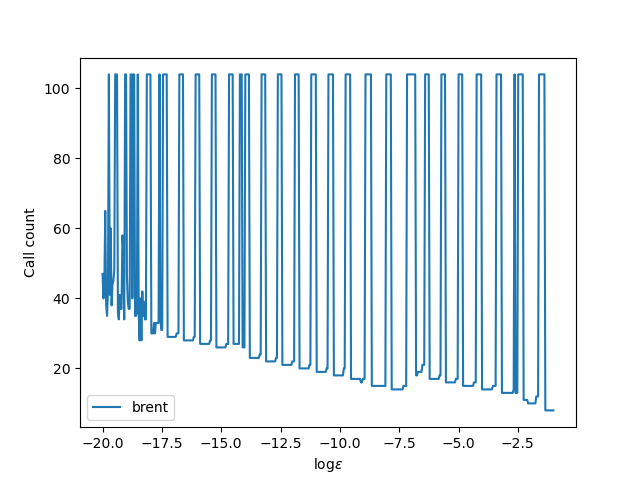
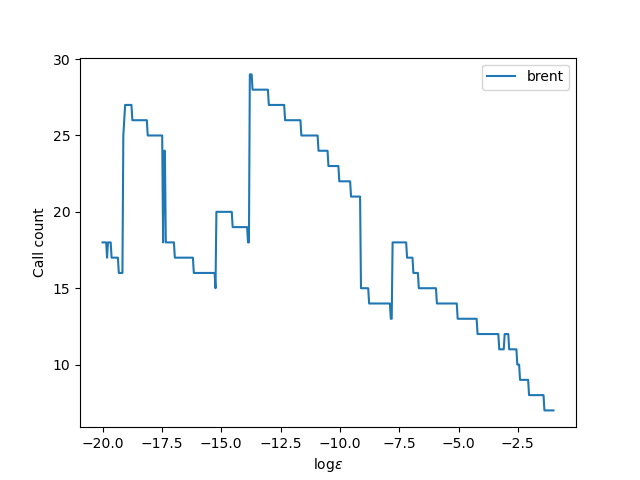
Fix brent

diff --git a/scripts/main.py b/scripts/main.py
@@ -8,10 +8,10 @@ import numpy as np
 import matplotlib.pyplot as plt
 
 methods = [
-    Method.DICHOTOMY,
-    Method.GOLDENSECTIONS,
-    Method.FIBONACCI,
-    Method.PARABOLAS,
+    # Method.DICHOTOMY,
+    # Method.GOLDENSECTIONS,
+    # Method.FIBONACCI,
+    # Method.PARABOLAS,
     Method.BRENT,
 ]
 
@@ -35,6 +35,8 @@ def gen_table(method):
 def count_calls(method = Method.DICHOTOMY, epsilon = 1e-5):
    for data in read_data(epsilon = epsilon, method = method):
        if(data['type'] == 'minimum'):
+           # if (int(data['call_count']) > 100):
+           #     print(epsilon)
            return int(data['call_count'])
 def gen_count_graph(method):
     epsilons = np.linspace(-1, -20, 500)
@@ -44,6 +46,7 @@ def gen_count_graph(method):
     plt.xlabel('$\\log \\varepsilon$')
     plt.ylabel("Call count")
     plt.savefig(PROJECT_ROOT + 'scripts/images/count_' + method + '.png')
+    plt.show()
 
 def gen_gprahs():
     for method in methods:
@@ -70,16 +73,15 @@ def test_polynom(polynom, x_range, plt = plt):
     plt.legend()
 
 if __name__ == "__main__":
-    # gen_gprahs()
+    gen_gprahs()
     # gen_tables()
-    fig, ((ax1, ax2), (ax3, ax4)) = plt.subplots(2, 2)
-    test_polynom([0, 0, 1], (-1, 1), plt = ax1)
-    test_polynom([0, -0.4, 2, -0.2], (-5, 12), plt = ax2)
-    test_polynom([-0.1, -0.9, -1.4, 0.3, 0.3], (-3, 3), plt = ax3)
-    test_polynom([-0.1, 0.1, -0.5, 0.1, -0.8, 0.1], (-5, 5), plt = ax4)
-    handles, labels = ax4.get_legend_handles_labels()
-    # plt.gcf().legend(handles, labels, loc = 'upper center')
-    plt.gcf().set_size_inches(10, 10)
-    plt.savefig(PROJECT_ROOT + 'scripts/images/polynom.png', dpi=100)
-    plt.show()
+    # fig, ((ax1, ax2), (ax3, ax4)) = plt.subplots(2, 2)
+    # test_polynom([0, 0, 1], (-1, 1), plt = ax1)
+    # test_polynom([0, -0.4, 2, -0.2], (-5, 12), plt = ax2)
+    # test_polynom([-0.1, -0.9, -1.4, 0.3, 0.3], (-3, 3), plt = ax3)
+    # test_polynom([-0.1, 0.1, -0.5, 0.1, -0.8, 0.1], (-5, 5), plt = ax4)
+    # handles, labels = ax4.get_legend_handles_labels()
+    # plt.gcf().set_size_inches(10, 10)
+    # plt.savefig(PROJECT_ROOT + 'scripts/images/polynom.png', dpi=100)
+    # plt.show()
 

diff --git a/lib/include/methods.hpp b/lib/include/methods.hpp
@@ -14,6 +14,11 @@ enum class Method {
 };
 
 template <typename T>
+bool check_equals(T a, T b) {
+    return static_cast<T>(fabs(a - b)) < std::numeric_limits<T>::epsilon();
+}
+
+template <typename T>
 class DichotomyMethod : public Optimizer<T> {
 private:
     T m_a, m_b, sigma, m_x1, m_x2, m_delta, m_fx1, m_fx2;
@@ -222,10 +227,6 @@ public:
         return {new IterationInterval<T>(x_1, x_3),
                 new IterationPoint<T>(u, f_u), parabola};
     }
-private:
-    bool check_equals(T a, T b) {
-        return static_cast<T>(fabs(a - b)) < std::numeric_limits<T>::epsilon();
-    }
 };
 
 template <typename T>
@@ -273,9 +274,11 @@ public:
         } else {
             d = golden_sec_const * (e = (x >= xm ? a - x : b - x));
         }
-        u = (fabs(d) >= tol1 ? x + d : x + tol1);
+        u = (fabs(d) >= tol1 ? x + d : x + tol1*(d > 0 ? 1 : -1));
         fu = (*this->m_function)(u);
         if (fu <= fx) {
+            if(u < x) b = x;
+            else a = x;
             v = w;
             w = x;
             x = u;
@@ -285,12 +288,12 @@ public:
         } else {
             if (u < x) a = u;
             else b = u;
-            if (fu <= fw || w == x) {
+            if (fu <= fw || check_equals(w, x)) {
                 v = w;
                 w = u;
                 fv = fw;
                 fw = fu;
-            } else if (fu <= fv || v == x || v == w) {
+            } else if (fu <= fv || check_equals(v, x)|| check_equals(v, w)) {
                 v = u;
                 fv = fu;
             }
